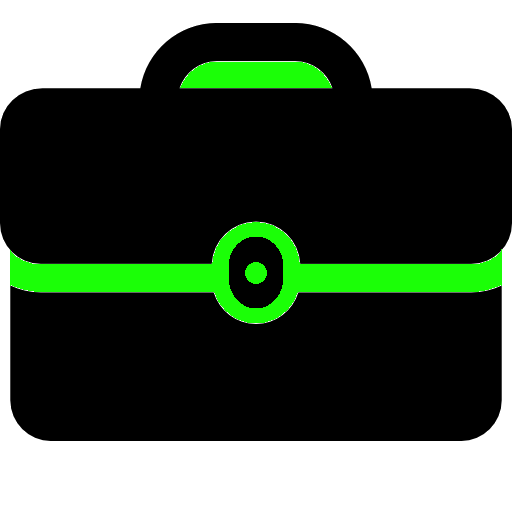
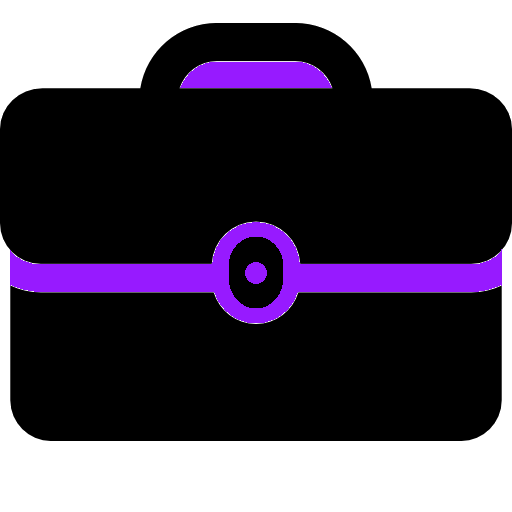
remade-for-me

Changed region(s): [[0.0, 0.4375, 1.0, 0.6562], [0.3438, 0.0938, 0.6562, 0.1875]]

diff --git a/index.html b/index.html
@@ -2,7 +2,7 @@
 <html lang="ru">
   <head>
     <meta charset="UTF-8" />
-    <title>Портфолио Саши Орлова</title>
+    <title>Портфолио Вадима Кожанова</title>
     <link
       rel="icon"
       type="image/png"
@@ -22,7 +22,7 @@
     <header class="header">
       <nav class="header__top-nav container">
         <a class="header__surname-bg" href="/"
-          ><p class="header__surname">orlov</p></a
+          ><p class="header__surname">kozhanov</p></a
         >
         <ul class="header__nav-list">
           <li class="header__item">
@@ -39,13 +39,13 @@
           </li>
         </ul>
       </nav>
-      <div class="header__about-me container">
+      <div class="header__about-me center-flex text-center">
         <p class="header__what-i-do">
           Разрабатываю имиджевые сайты для малого и среднего бизнеса, которые
           повышают престиж компании и позволяют выделиться на фоне конкурентов
         </p>
         <h1 class="header__who-am-i">
-          Привет, я Саша — фронтенд разработчик и дизайнер сайтов
+          Привет, я Вадим — фронтенд разработчик и дизайнер сайтов
         </h1>
       </div>
     </header>
@@ -56,40 +56,53 @@
         </h2>
         <ul class="projects__list">
           <li class="projects__item">
-            <a class="projects__link" href="#">
+            <a
+              class="projects__link"
+              href="https://kozhvat.github.io/Studio-Metrika-SDCODE/"
+            >
               <img
                 class="projects__img"
-                src="./resources/img/png/realhome.png"
+                src="./resources/img/png/metrika.png"
                 alt="небоскрёб на фоне сайта по строительству домов"
               />
-              <h3 class="projects__name">Realhome</h3>
+              <h3 class="projects__name">Cтудия дизайна Метрика</h3>
               <p class="projects__description">дизайн, верстка, настройка</p>
             </a>
           </li>
           <li class="projects__item">
-            <a class="projects__link" href="#">
+            <a
+              class="projects__link"
+              href="https://kozhvat.github.io/Nothing-Ear/"
+            >
               <img
                 class="projects__img"
-                src="./resources/img/png/glass.png"
+                src="./resources/img/png/nothing-store.png"
                 alt="сайт по продаже очков"
               />
-              <h3 class="projects__name">GLASS</h3>
-              <p class="projects__description">разработка интерфейса</p>
+              <h3 class="projects__name">Nothing Store</h3>
+              <p class="projects__description">дизайн, верстка, настройка</p>
             </a>
           </li>
           <li class="projects__item">
-            <a class="projects__link" href="#">
+            <a
+              class="projects__link"
+              href="https://kozhvat.github.io/course_figma/"
+            >
               <img
                 class="projects__img"
-                src="./resources/img/png/fesiyen.png"
+                src="./resources/img/png/japan.png"
                 alt="сайт на тему моды и одежды"
               />
-              <h3 class="projects__name">Fesiyen</h3>
-              <p class="projects__description">разработка интерфейса</p>
+              <h3 class="projects__name">Japan</h3>
+              <p class="projects__description">дизайн, верстка, настройка</p>
             </a>
           </li>
         </ul>
-        <a class="projects__view-all-link" href="#">Смотреть все проекты</a>
+        <a
+          class="projects__view-all-link"
+          href="https://github.com/kozhvat?tab=repositories"
+          >Смотреть все проекты</a
+        >
       </section>
       <section class="competencies container">
         <h2 class="competencies__header universal-header" id="competencies">
@@ -197,16 +210,20 @@
       </section>
       <section class="contacts" id="contacts">
         <div class="contacts__container container">
-          <h2 class="contacts__header">для связи:</h2>
+          <h2 class="contacts__header">связаться со мной:</h2>
           <ul class="contacts__list">
             <li class="contacts__item">
-              <a class="contacts__link" href="#">instagram</a>
+              <a
+                class="contacts__link"
+                href="https://www.instagram.com/vadim.kozhanov/"
+                >instagram</a
+              >
             </li>
             <li class="contacts__item">
-              <a class="contacts__link" href="#">telegram</a>
+              <a class="contacts__link" href="https://t.me/kozhvat">telegram</a>
             </li>
             <li class="contacts__item">
-              <a class="contacts__link" href="#">mail</a>
+              <a class="contacts__link" href="mailto:kozhvat@mail.ru">mail</a>
             </li>
           </ul>
         </div>
@@ -215,7 +232,7 @@
     <footer class="footer">
       <div class="footer__container container">
         <h2 class="footer__header">
-          Портфолио фронтенд-разработчика Саши Орлова
+          Портфолио фронтенд-разработчика Вадима Кожанова
         </h2>
         <p class="footer__copyright">Все права защищены. 2023</p>
       </div>

diff --git a/styles/styles.css b/styles/styles.css
@@ -54,18 +54,15 @@ a {
   position: relative;
   background: linear-gradient(
       180deg,
-      rgba(0, 0, 0, 0) 0%,
-      rgba(0, 0, 0, 0.5) 100%
+      rgba(0, 0, 0, 0.2) 0%,
+      rgba(0, 0, 0, 0.6) 100%
     ),
     url(../resources/img/png/header-bg.png) 0 0/100% auto no-repeat;
   background-position: top;
-  /* transition: 0.5s; */
-  /* overflow: hidden; */
 }
-/* .header:hover {
-  transform: scale(1.02);
-  box-shadow: inset 0 2000px rgba(0, 0, 0, 0.17);
-} */
+.header__about-me {
+  flex-direction: column;
+}
 .header__top-nav {
   height: 55px;
   padding: 32.7px 0 246.7px 0;
@@ -74,22 +71,28 @@ a {
 }
 .header__surname-bg {
   margin: 3px 0 0 -2px;
-  min-width: 130px;
-  /* min-width: 191px;   для моей фамилии */
+  /* min-width: 130px;   по макету */
+  min-width: 191px; /* для моей фамилии */
   height: 39px;
   display: block;
   background: #000000;
   border-radius: 100px;
+  box-shadow: 0px 0px 15px #971aff, 0px 0px 5px #971aff;
+  transition: 0.4s;
+}
+.header__surname-bg:hover {
+  box-shadow: 0px 0px 15px #971aff, 0px 0px 5px #971aff, 0px 0px 20px #971aff,
+    0px 0px 10px #971aff;
 }
 .header__surname {
   display: block;
   margin: -9px 0 0 9px;
-  font-size: 42.4138px;
-  line-height: 55px;
+  font-size: 42px;
+  line-height: 56.5px;
   font-weight: 700;
   letter-spacing: -0.11em;
   text-transform: uppercase;
-  color: #1bff07;
+  color: #971aff;
 }
 .header__nav-list {
   display: flex;
@@ -102,11 +105,16 @@ a {
   text-decoration: none;
   font-size: 18px;
   line-height: 23px;
+  font-weight: 700;
   cursor: pointer;
   transition: 0.4s;
+  text-shadow: 0px 0px 10px #971aff, 0px 0px 5px #971aff;
 }
 .header__link:hover {
-  color: #1bff07;
+  color: #c177ff;
+  font-size: 18px;
+  font-weight: 700;
+  text-shadow: 0px 0px 10px #000000, 0px 0px 15px #971aff, 0px 0px 5px #971aff;
 }
 .header__what-i-do {
   margin-bottom: 28px;
@@ -119,16 +127,19 @@ a {
   width: 919px;
   font-size: 80px;
   line-height: 70px;
-  color: #1bff07;
+  color: #971aff;
+  text-shadow: 0px 0px 20px #000000;
 }
 .projects {
   margin-bottom: 151.6px;
 }
 .projects__header {
   margin: 0 0 40px -5px;
+  text-shadow: 0px 0px 15px #ffffff;
 }
 .projects__list {
   margin-bottom: 78px;
+  overflow: hidden;
 }
 .projects__link {
   display: block;
@@ -136,6 +147,18 @@ a {
   width: 100%;
   height: 550px;
   border-radius: 30px;
+  transition: 0.5s;
+}
+.projects__link:hover {
+  opacity: 0.8;
+  transform: scale(1.012);
+}
+.projects__img {
+  width: 1150px;
+  height: 550px;
+  border-radius: 30px;
+  background: #000000;
+  opacity: 0.85;
 }
 .projects__name {
   width: 430px;
@@ -144,6 +167,7 @@ a {
   position: absolute;
   font-size: 35px;
   line-height: 46px;
+  text-shadow: 0px 0px 20px #000000;
 }
 .projects__description {
   width: 445px;
@@ -161,23 +185,25 @@ a {
   font-size: 30px;
   line-height: 151px;
   text-align: center;
-  border: 1px solid #1bff07;
   border-radius: 10px;
   text-decoration: none;
   color: #000000;
-  background-color: #1bff07;
+  background-color: #971aff;
   cursor: pointer;
   transition: 0.4s;
 }
 .projects__view-all-link:hover {
-  color: #1bff07;
+  color: #971aff;
   background-color: #000000;
+  box-shadow: inset 0px 0px 15px #971aff, 0px 0px 5px #971aff,
+    0px 0px 20px #971aff, 0px 0px 10px #971aff;
 }
 .competencies {
   margin-bottom: 150px;
 }
 .competencies__header {
   margin: 0 0 47px -2px;
+  text-shadow: 0px 0px 15px #ffffff;
 }
 .html-css::before {
   content: '';
@@ -233,7 +259,7 @@ a {
   margin-bottom: 15.2px;
   font-size: 35px;
   line-height: 46px;
-  color: #1bff07;
+  color: #971aff;
 }
 .competencies__description {
   width: 778px;
@@ -245,6 +271,7 @@ a {
   width: 403px;
   font-size: 35px;
   line-height: 46px;
+  text-shadow: 0px 0px 15px #ffffff;
 }
 .services__list > *:not(:last-child, :nth-child(2)),
 .services__header {
@@ -263,7 +290,7 @@ a {
   padding: 40px 0 15px 40px;
   font-size: 55px;
   line-height: 72px;
-  color: #1bff07;
+  color: #971aff;
 }
 .services__description {
   width: 755px;
@@ -283,6 +310,7 @@ a {
   padding: 320px 0 29px 0;
   font-size: 35px;
   line-height: 60px;
+  text-shadow: 0px 0px 15px #ffffff;
 }
 .contacts__link {
   display: block;
@@ -290,9 +318,11 @@ a {
   font-size: 60px;
   line-height: 60px;
   text-decoration: none;
+  transition: 0.4s;
 }
 .contacts__link:hover {
-  color: #1bff07;
+  color: #b255ff;
+  text-shadow: 0px 0px 15px #971aff, 0px 0px 5px #971aff;
 }
 .footer {
   min-height: 223px;
